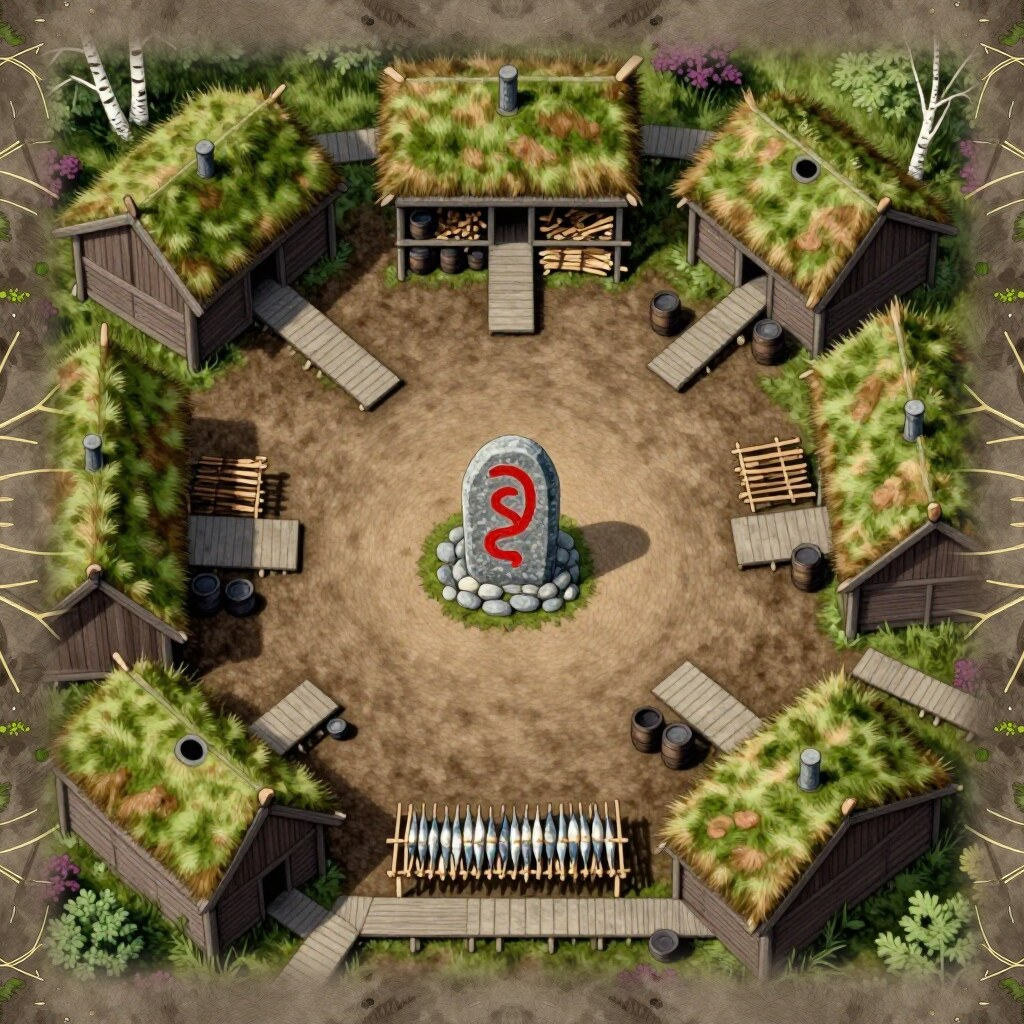
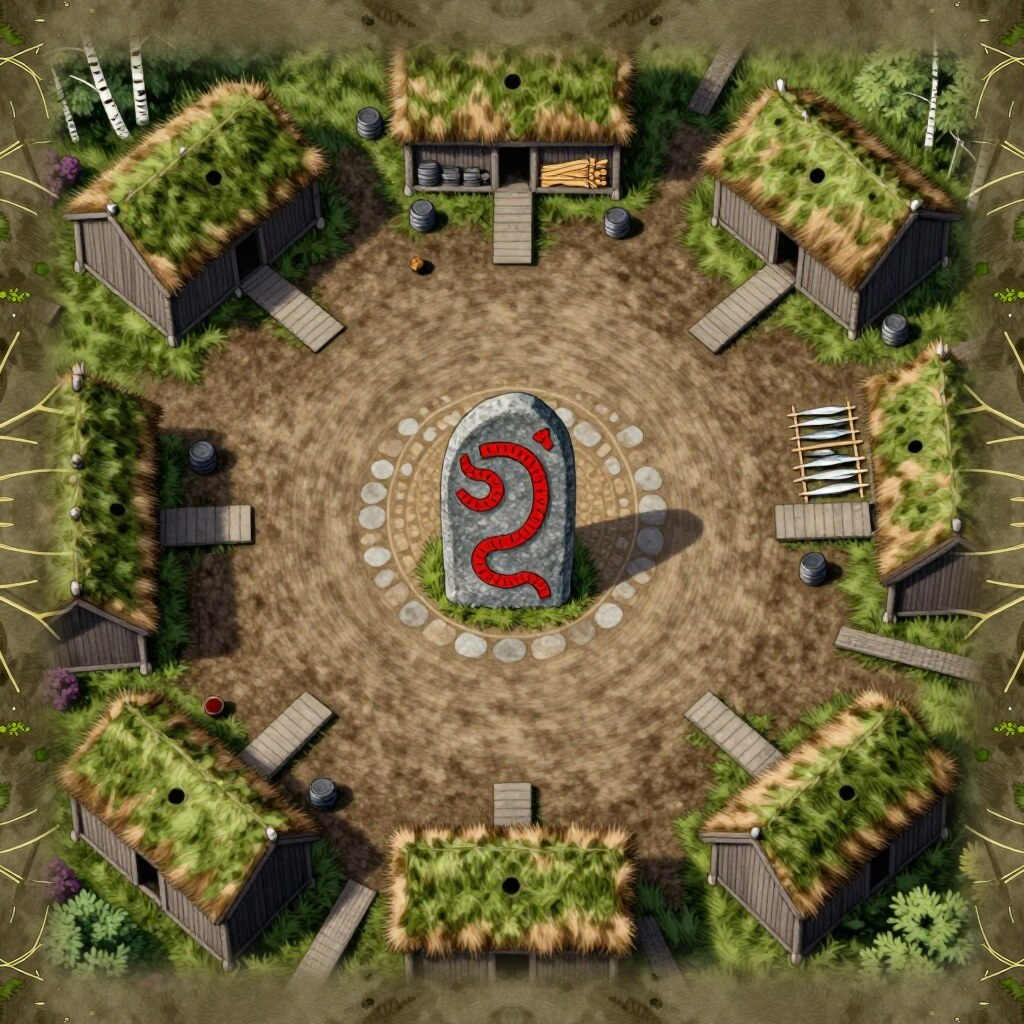
Nye brikkebilder: større runesteiner og jevnere kanter
Alle 24 brikkene er malt på nytt. Kantbåndet er fargejustert mot
brikkene, så rutenettet ikke lenger synes på brettet, og runesteinene
er store og står på en steinlagt plass. H og I har tydelige borger,
M og O har bare én runestein, og W er et T-kryss: modellen la alltid
til en fjerde vei mot nord, så den stripen males nå på nytt som eng.
Skriptet har fått en felles funksjon for å male et område på nytt.

diff --git a/verktoy/lag-brikker.js b/verktoy/lag-brikker.js
@@ -29,9 +29,13 @@ const valg = Object.fromEntries(process.argv.slice(2).filter((a) => a.startsWith
   .map((a) => a.slice(2).split('=')));
 const ider = process.argv.slice(2).filter((a) => !a.startsWith('--')).map((a) => a.toUpperCase());
 const seed = Number(valg.seed ?? 1066);
-// Brikker der standard-seed ga feil: B fikk en sti ned til kanten (har ingen vei),
-// og X fikk åtte veier i stedet for fire
-const SEED = { B: 7, X: 99 };
+// Brikker der standard-seed ga feil: B fikk en sti ned til kanten (har ingen vei), X fikk
+// åtte veier, H og I fikk borger av gress, og M og O fikk to runesteiner
+const SEED = { B: 7, X: 99, H: 42, I: 42, M: 99, O: 99 };
+// Eng som males på nytt som ren eng etter runde 1. W (tre veier) får ellers alltid en fjerde
+// vei mot nord, fordi kantkartet er tomt der og modellen ser brønn i krysset som firveiskryss.
+// «omrade» er rektangelet (x0,y0 x1,y1) som males på nytt; bare enga innenfor tas med.
+const RENSK_ENG = { W: { omrade: '420,0 604,430' } };
 const denoise = Number(valg.denoise ?? 1.0);
 const styrke = Number(valg.styrke ?? 1.0);
 const stoy = Number(valg.stoy ?? 0);
@@ -108,12 +112,56 @@ const sampler = (modell, prompt, latent, d, brikkeseed = seed) => ({
   },
 });
 
+const styrtModell = (kantbilde) => ({
+  patch: { class_type: 'ModelPatchLoader', inputs: { name: 'Z-Image-Turbo-Fun-Controlnet-Union-2.1-lite-2602-8steps.safetensors' } },
+  kant: { class_type: 'LoadImage', inputs: { image: kantbilde } },
+  styrt: {
+    class_type: 'ZImageFunControlnet',
+    inputs: { model: ['modell', 0], model_patch: ['patch', 0], vae: ['vae', 0], image: ['kant', 0], strength: styrke },
+  },
+});
+
 // Hvit der skissen har en av fargene, svart ellers
 const fargemaske = (skisse, farger, ut, ...etter) => magick(skisse, '-fuzz', '4%', '-fill', 'white',
   farger.flatMap((f) => ['-opaque', f]), '-fill', 'black', '+opaque', 'white', '-colorspace', 'gray', etter, ut);
 
 const skisseAv = (id) => `${ROT}kunst/skisser/${id}.png`;
 const filAv = (id) => (navn) => `${ARBEID}${id}_${navn}.png`;
+
+// Maler ett område av brikken på nytt med en egen prompt. Området (masken fil(navn), med
+// en myk utgave fil(navn + 'myk')) klippes ut og skaleres opp til ca. 1024 px, så modellen
+// ser det som et helt bilde. Under området legges skissen, så runden starter fra riktig farge.
+async function malPaaNytt(b, navn, prompt, d, { kontroll = true } = {}) {
+  const fil = filAv(b.id);
+  // Rammen rundt området. Svart kant først, ellers regnes et område som dekker hjørnene som bakgrunn.
+  const [, w, h, xr, yr] = execFileSync('convert', [fil(navn), '-bordercolor', 'black', '-border', '1', '-format', '%@', 'info:'])
+    .toString().match(/(\d+)x(\d+)\+(\d+)\+(\d+)/).map(Number);
+  const x = xr - 1, y = yr - 1;
+  const x0 = Math.max(0, x - 48), y0 = Math.max(0, y - 48);
+  const bw = Math.min(1024, x + w + 48) - x0, bh = Math.min(1024, y + h + 48) - y0;
+  const skala = 1024 / Math.max(bw, bh);
+  const [sw, sh] = [bw, bh].map((v) => Math.round((v * skala) / 16) * 16);
+  const klipp = (inn, ut, ...etter) => magick(inn, '-crop', `${bw}x${bh}+${x0}+${y0}`, '+repage', '-resize', `${sw}x${sh}!`, etter, ut);
+  magick(fil('malt'), fil('start'), fil(navn), '-composite', fil(`${navn}_grunn`));
+  klipp(fil(`${navn}_grunn`), fil(`${navn}_grunn_klipp`));
+  klipp(fil('kant'), fil(`${navn}_kant_klipp`), '-threshold', '50%');
+  klipp(fil(navn), fil(`${navn}_klipp`));
+  writeFileSync(fil(`${navn}_malt`), await kjor({
+    ...lastere,
+    ...styrtModell(await lastOpp(fil(`${navn}_kant_klipp`), `karkasand_${b.id}_${navn}_kant.png`)),
+    start: { class_type: 'LoadImage', inputs: { image: await lastOpp(fil(`${navn}_grunn_klipp`), `karkasand_${b.id}_${navn}_grunn.png`) } },
+    maskebilde: { class_type: 'LoadImage', inputs: { image: await lastOpp(fil(`${navn}_klipp`), `karkasand_${b.id}_${navn}.png`) } },
+    maske: { class_type: 'ImageToMask', inputs: { image: ['maskebilde', 0], channel: 'red' } },
+    ...tekst('p', prompt),
+    latent: { class_type: 'VAEEncode', inputs: { pixels: ['start', 0], vae: ['vae', 0] } },
+    maskert: { class_type: 'SetLatentNoiseMask', inputs: { samples: ['latent', 0], mask: ['maske', 0] } },
+    k: sampler(kontroll ? 'styrt' : 'modell', 'p', 'maskert', d),
+    bilde: { class_type: 'VAEDecode', inputs: { samples: ['k', 0], vae: ['vae', 0] } },
+    lagre: { class_type: 'SaveImage', inputs: { images: ['bilde', 0], filename_prefix: `karkasand/${b.id}_${navn}` } },
+  }));
+  magick(fil('malt'), '(', fil(`${navn}_malt`), '-resize', `${bw}x${bh}!`, ')', '-geometry', `+${x0}+${y0}`, '-composite', fil(`${navn}_innsatt`));
+  magick(fil('malt'), fil(`${navn}_innsatt`), fil(`${navn}myk`), '-composite', fil('malt'));
+}
 
 // Runde 1 og 2. Gir stien til det malte bildet, før kantstripen.
 async function malRunder(b, { skisse = skisseAv(b.id), prompt = `${prompter[b.id]}, ${stil}`, borgrunde = true, kontroll = true } = {}) {
@@ -129,15 +177,6 @@ async function malRunder(b, { skisse = skisseAv(b.id), prompt = `${prompter[b.id
     '-morphology', 'Close', 'Disk:8');
   magick(fil('borg'), '-blur', '0x4', fil('borgmyk'));
   const harBorg = borgrunde && snitt(fil('borg')) > 0.01;
-
-  const styrtModell = (kantbilde) => ({
-    patch: { class_type: 'ModelPatchLoader', inputs: { name: 'Z-Image-Turbo-Fun-Controlnet-Union-2.1-lite-2602-8steps.safetensors' } },
-    kant: { class_type: 'LoadImage', inputs: { image: kantbilde } },
-    styrt: {
-      class_type: 'ZImageFunControlnet',
-      inputs: { model: ['modell', 0], model_patch: ['patch', 0], vae: ['vae', 0], image: ['kant', 0], strength: styrke },
-    },
-  });
 
   // Runde 1: hele brikken
   writeFileSync(fil('malt'), await kjor({
@@ -155,35 +194,16 @@ async function malRunder(b, { skisse = skisseAv(b.id), prompt = `${prompter[b.id
   // borg med hus og ikke bare fortsetter enga rundt. Under borgen legges den brune
   // skissen, så runden starter fra jord.
   if (harBorg) {
-    // Rammen rundt borgen. Svart kant først, ellers regnes en borg som dekker hjørnene som bakgrunn.
-    const [, w, h, xr, yr] = execFileSync('convert', [fil('borg'), '-bordercolor', 'black', '-border', '1', '-format', '%@', 'info:'])
-      .toString().match(/(\d+)x(\d+)\+(\d+)\+(\d+)/).map(Number);
-    const x = xr - 1, y = yr - 1;
-    const x0 = Math.max(0, x - 48), y0 = Math.max(0, y - 48);
-    const bw = Math.min(1024, x + w + 48) - x0, bh = Math.min(1024, y + h + 48) - y0;
-    const skala = 1024 / Math.max(bw, bh);
-    const [sw, sh] = [bw, bh].map((v) => Math.round((v * skala) / 16) * 16);
-    const klipp = (inn, ut, ...etter) => magick(inn, '-crop', `${bw}x${bh}+${x0}+${y0}`, '+repage', '-resize', `${sw}x${sh}!`, etter, ut);
-    magick(fil('malt'), fil('start'), fil('borg'), '-composite', fil('jord'));
-    klipp(fil('jord'), fil('jord_klipp'));
-    klipp(fil('kant'), fil('kant_klipp'), '-threshold', '50%');
-    klipp(fil('borg'), fil('borg_klipp'));
     const runestein = b.deler.some((d) => d.runestein) ? `, ${RUNESTEIN}` : '';
-    writeFileSync(fil('borg_malt'), await kjor({
-      ...lastere,
-      ...styrtModell(await lastOpp(fil('kant_klipp'), `karkasand_${b.id}_kant_klipp.png`)),
-      start: { class_type: 'LoadImage', inputs: { image: await lastOpp(fil('jord_klipp'), `karkasand_${b.id}_jord.png`) } },
-      maskebilde: { class_type: 'LoadImage', inputs: { image: await lastOpp(fil('borg_klipp'), `karkasand_${b.id}_borg.png`) } },
-      maske: { class_type: 'ImageToMask', inputs: { image: ['maskebilde', 0], channel: 'red' } },
-      ...tekst('p', `${borgprompt}${runestein}, ${stil}`),
-      latent: { class_type: 'VAEEncode', inputs: { pixels: ['start', 0], vae: ['vae', 0] } },
-      maskert: { class_type: 'SetLatentNoiseMask', inputs: { samples: ['latent', 0], mask: ['maske', 0] } },
-      k: sampler('styrt', 'p', 'maskert', borgdenoise),
-      bilde: { class_type: 'VAEDecode', inputs: { samples: ['k', 0], vae: ['vae', 0] } },
-      lagre: { class_type: 'SaveImage', inputs: { images: ['bilde', 0], filename_prefix: `karkasand/${b.id}_borg` } },
-    }));
-    magick(fil('malt'), '(', fil('borg_malt'), '-resize', `${bw}x${bh}!`, ')', '-geometry', `+${x0}+${y0}`, '-composite', fil('borg_innsatt'));
-    magick(fil('malt'), fil('borg_innsatt'), fil('borgmyk'), '-composite', fil('malt'));
+    await malPaaNytt(b, 'borg', `${borgprompt}${runestein}, ${stil}`, borgdenoise);
+  }
+  // Rydd enga der modellen legger til noe som ikke skal være der (se RENSK_ENG)
+  if (RENSK_ENG[b.id]) {
+    fargemaske(skisse, [SKISSEFARGE.eng], fil('eng'), '(', '-size', '1024x1024', 'xc:black', '-fill', 'white',
+      '-draw', `rectangle ${RENSK_ENG[b.id].omrade}`, ')', '-compose', 'multiply', '-composite');
+    magick(fil('eng'), '-blur', '0x10', fil('engmyk'));
+    // Uten ControlNet og uten «board game tile» i stilen: ellers blir det rutemønster
+    await malPaaNytt(b, 'eng', `${kildeprompter.eng}, ${kildestil}`, 1, { kontroll: false });
   }
 
   return fil('malt');

diff --git a/docs/BRIKKER.md b/docs/BRIKKER.md
@@ -424,7 +424,7 @@ a dirt road enters at the exact middle of the left edge, curves smoothly and exi
 
 **Prompt:**
 ```
-three dirt roads from the exact middles of the left, right and bottom edges meet at a small farmyard with a stone well and a tiny storehouse in the center; open meadow on the top half
+a T-shaped road junction: one dirt road runs straight across the tile from the middle of the left edge to the middle of the right edge, and a second dirt road comes up from the middle of the bottom edge and ends at a small farmyard with a stone well in the center; no road goes north, the whole upper half is unbroken open meadow with a small storehouse
 ```
 
 ---
